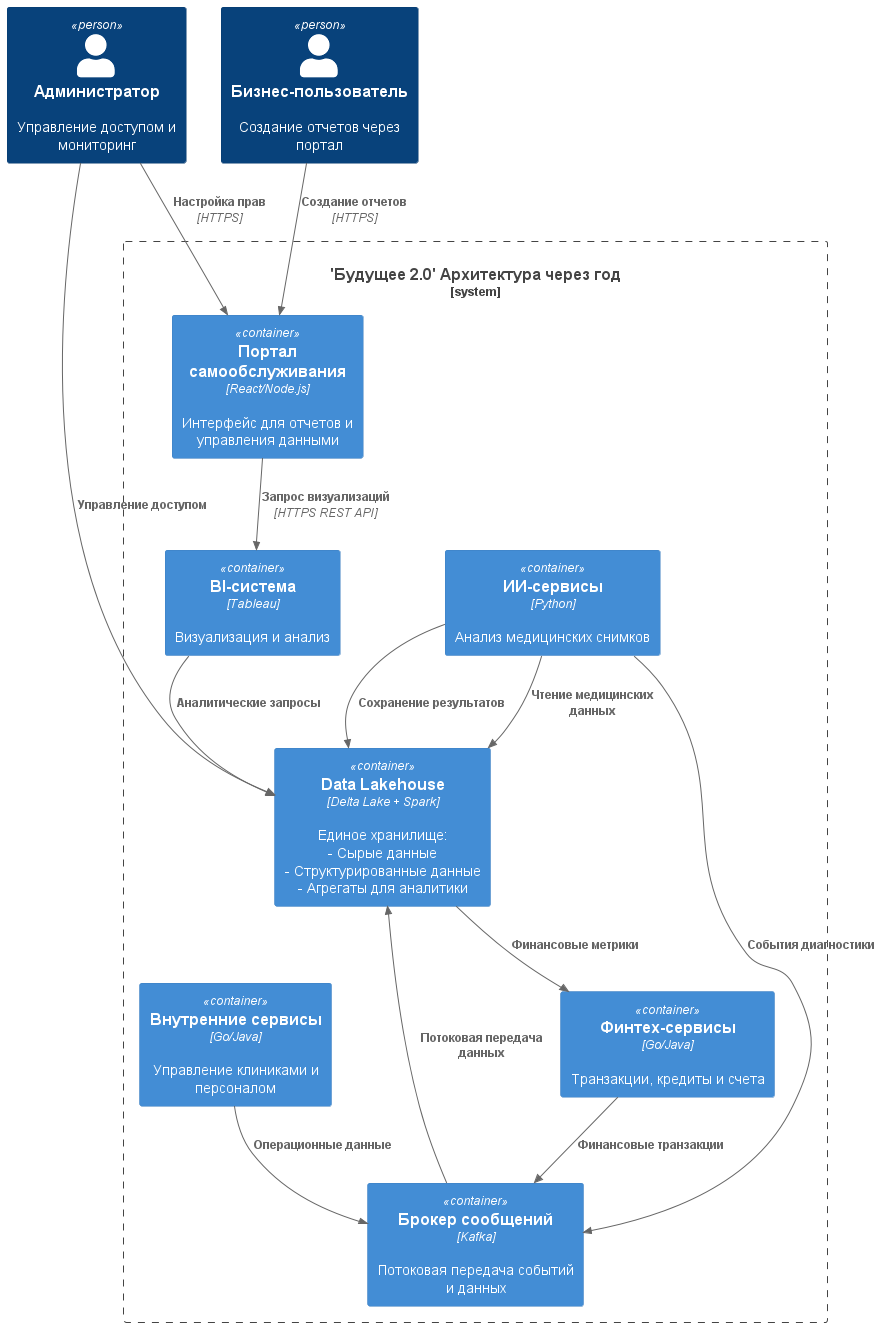
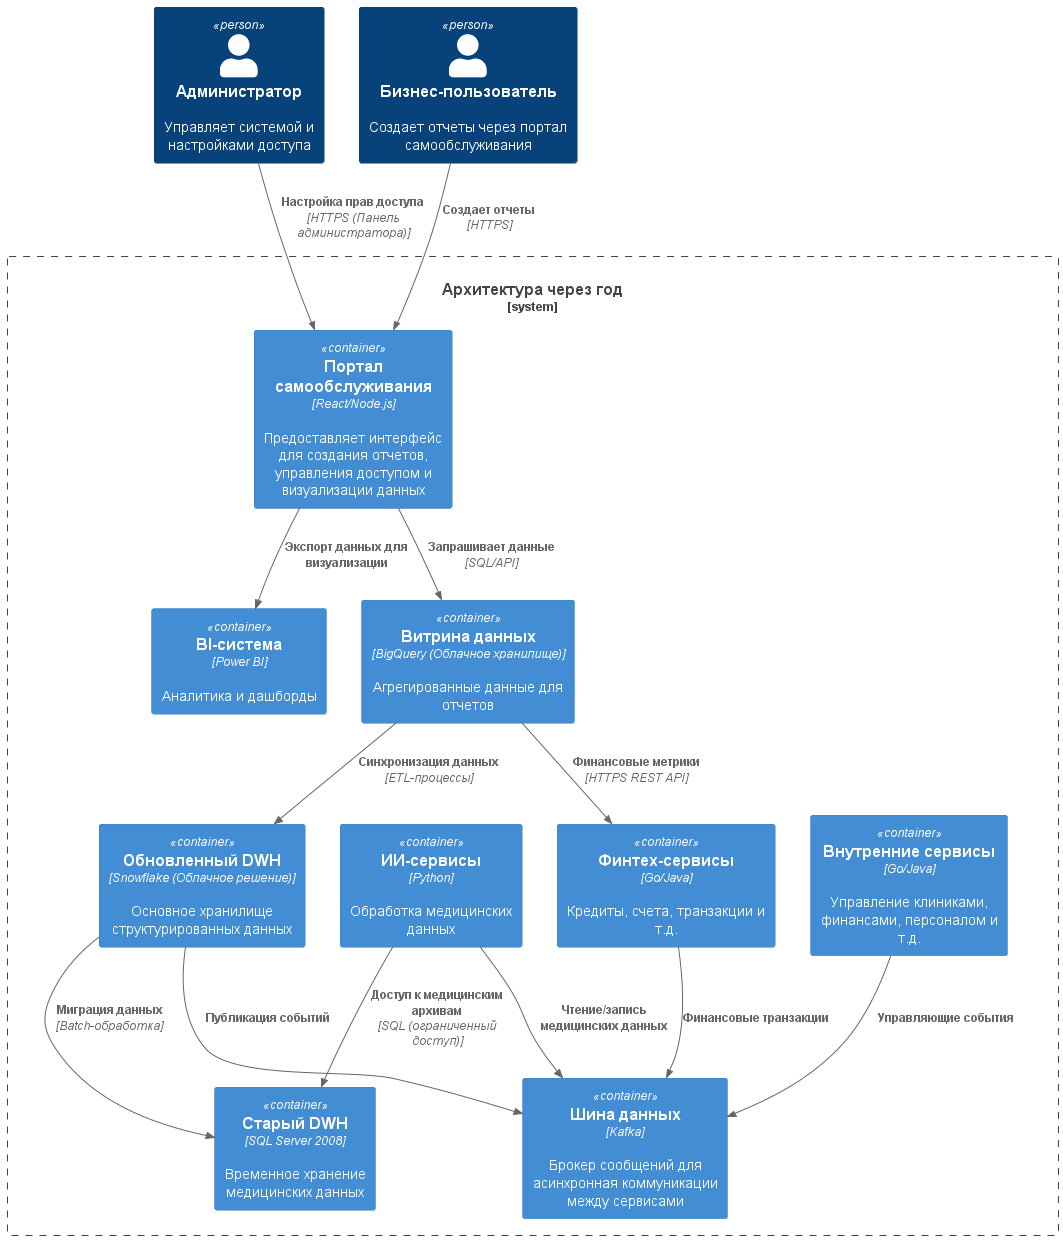
feat(Exc1): Внес корректировки в архитектуру через год

diff --git a/Exc1/README.md b/Exc1/README.md
@@ -14,7 +14,7 @@
     - Не справляется с асинхронной обработкой данных от новых бизнесов (фармацевтика, электроника);
     - Отсутствие поддержки событийно-ориентированной архитектуры;
 - Медленная генерация отчетов (Низкий приоритет);
-- Все сервисы зависят от DWH (Низкий приоритет).
+- Все сервисы зависят от DWH (Средний приоритет).
 
 ## Архитектура системы через год
 
@@ -22,14 +22,11 @@
 
 ![alt text](./diagrams/ToBe.png)
 
-**Портал самообслуживания** —  Веб-интерфейс для бизнес-пользователей, позволяющий создавать отчеты, управлять данными и визуализировать аналитику. Так же имеет админ-панель, где администраторы могут настраивать права;
-1. **Общая шина данны (Kafka)** — заменяет устаревшую шину на Apache Camel. Обеспечивает асинхронное взаимодействие между сервисами.
-2. **BI-система** - Визуализация данных, генерация отчетов и дашбордов;
-3. **Data Lakehouse** - хранилище для разных типов данных: сырые данные (медицинские снимки, логи, события Kafka), структурированные данные (бывшие данные DWH - финансы, инвентаризация, персонал), агрегаты (готовые метрики для аналитики);
-4. **ИИ-сервисы** - Анализ медицинских снимков и генерация диагнозов;
-5. **Финтех-сервисы** - Обработка финансовых операций;
-6. **Брокер сообщений (Kafka)** - Асинхронная передача данных между компонентами;
-7. **Внутренние сервисы** - Управление клиникой и персоналом.
-
-На схеме не показано, но можно оставить старый DWH в качестве источника архивной информации,
-которая должна будет со временем перенестись в Data Lakehouse.
+1. **Портал самообслуживания** — Центральный интерфейс для пользователей. Интегрируется с витриной данных и BI-системой.
+2. **Витрина данных** — Содержит только данные, разрешенные для аналитики, без медицинских исследований. Обновляется через ETL из DWH.
+3. **Обновленный DWH** — Облачное решение Snowflake для масштабируемости и скорости обработки.
+4. **Шина данных (Kafka)** — заменяет устаревшую шину на Apache Camel. Обеспечивает асинхронное взаимодействие между сервисами.
+5. **Старый DWH** — Временно сохраняется для медицинских данных, недоступных для аналитики. Постепенно заменяется.
+6. **ИИ-сервисы** — Изолированы в контейнерах для работы с медицинскими данными. Взаимодействуют через шину данных.
+7. **Финтех-сервисы** — Микросервисы на для независимого развития банковского направления.
+8. **BI-система** — Power BI или аналоги для визуализации.
